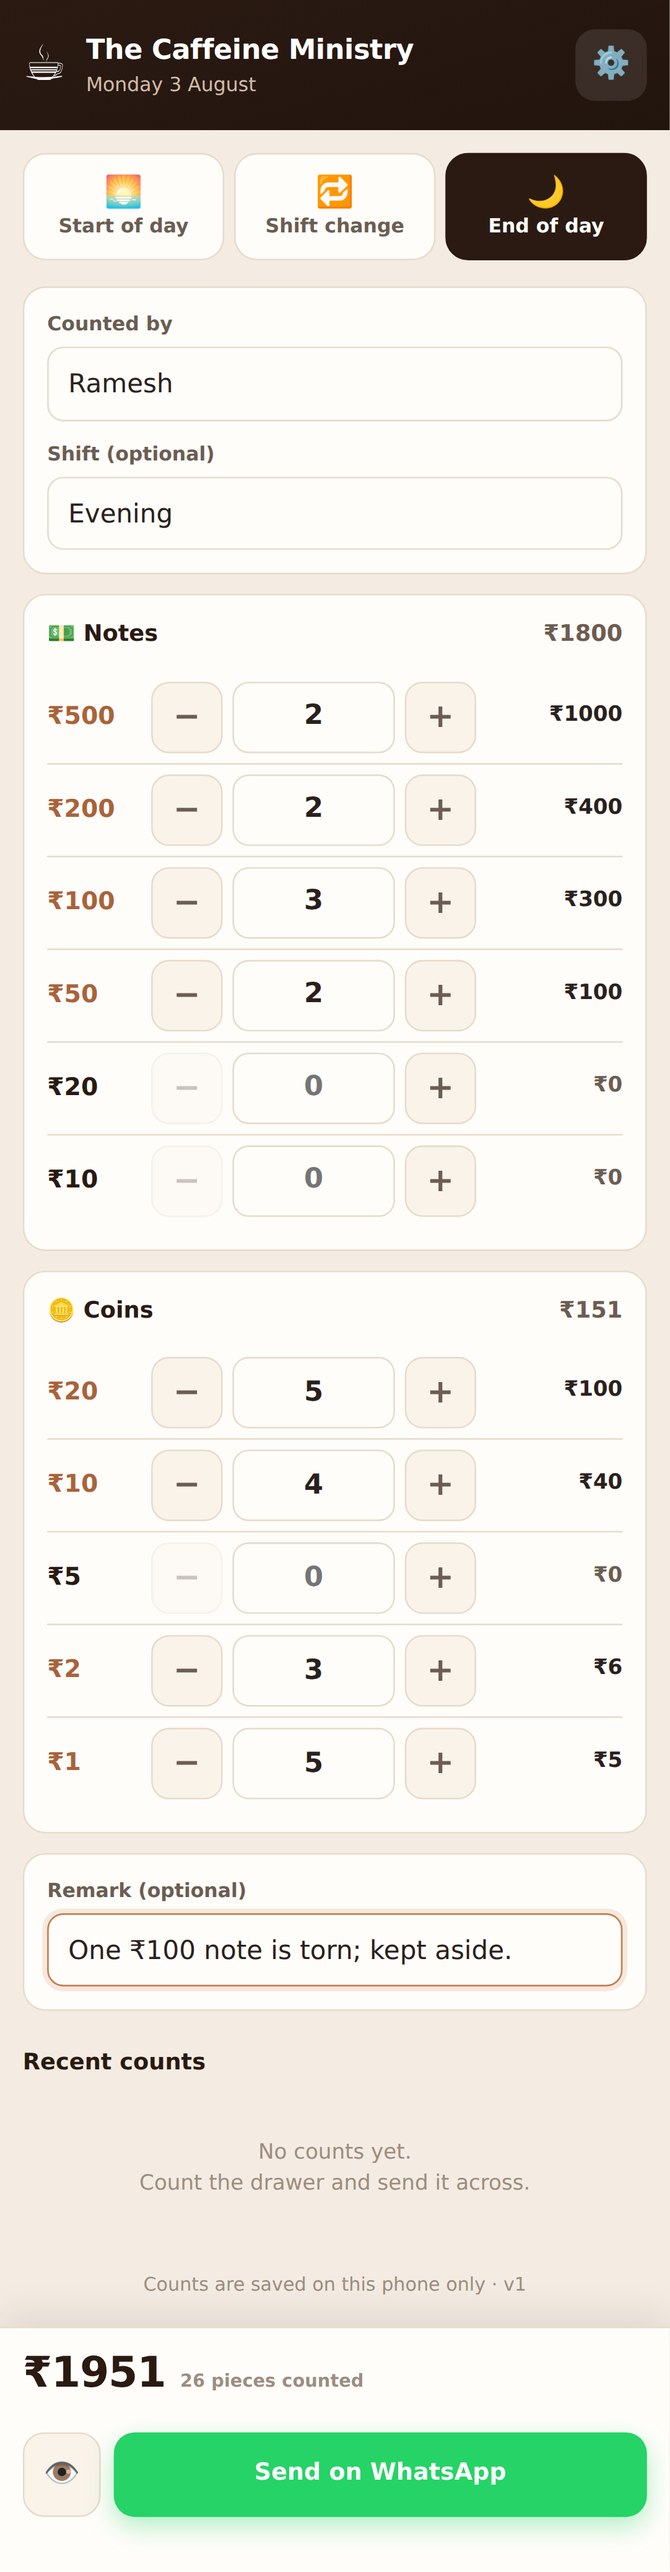
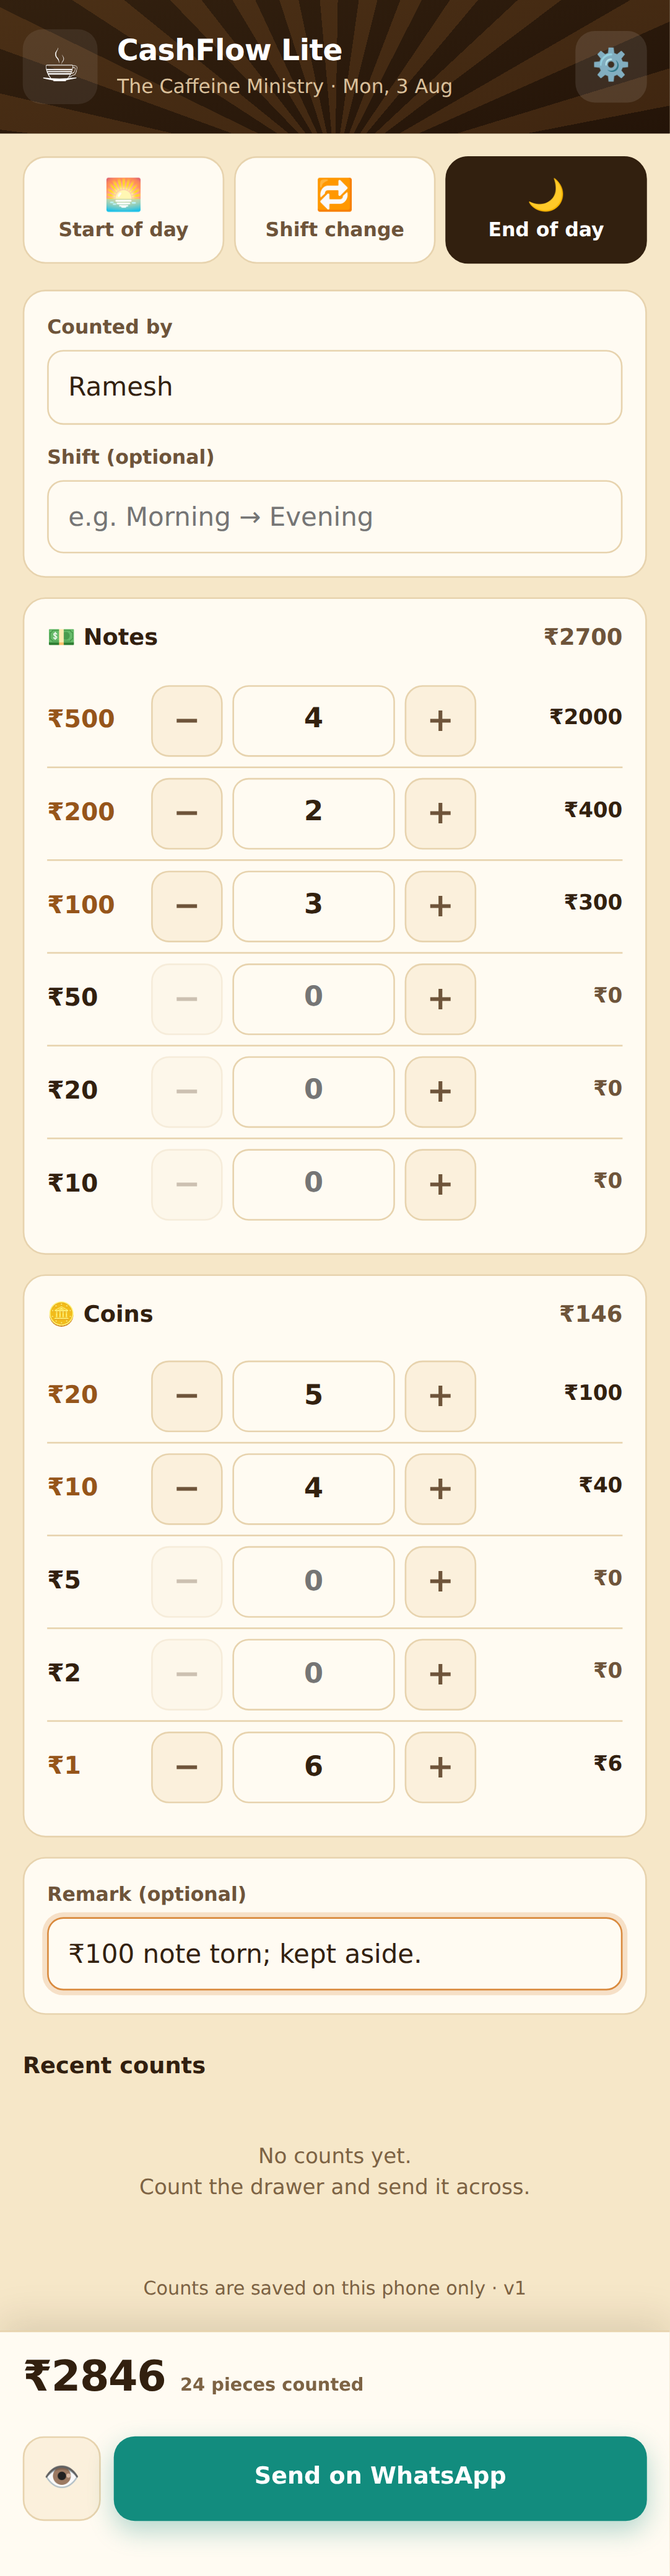
Retheme CashFlow Lite to the badge's palette
Every colour now comes off the logo: the poster's sepia ground and sunburst
(the header carries the rays), the mascot cup's orange, its dark chocolate
outline, the cream of its gloves, and the sage green of the banknotes.

The send button moves from WhatsApp's bright #25d366 to its deep #128c7e —
still a WhatsApp brand green, but one that sits on a warm ground instead of
fighting it.

Muted text is set at #7d6344 so it clears 4.5:1 against the page ground; the
denomination faces on filled rows use a darkened orange for the same reason.
icon.svg, the manifest colours and the theme-color meta follow the palette.

The header badge, the home-screen icon and the tab icon all read logo.png
from this folder when it is present, falling back to the ☕ and icon.svg
until then.

Claude-Session: https://claude.ai/code/session_01NCFSABa2MJzb9iJfLcHcJ2

diff --git a/cash-counter/index.html b/cash-counter/index.html
@@ -3,7 +3,7 @@
 <head>
 <meta charset="utf-8" />
 <meta name="viewport" content="width=device-width, initial-scale=1, viewport-fit=cover" />
-<meta name="theme-color" content="#2a1a12" />
+<meta name="theme-color" content="#32200f" />
 <meta name="description" content="Count the cash drawer and send the breakdown to the owner on WhatsApp." />
 <meta name="mobile-web-app-capable" content="yes" />
 <meta name="apple-mobile-web-app-capable" content="yes" />
@@ -14,21 +14,28 @@
 <link rel="apple-touch-icon" href="./logo.png" />
 <title>CashFlow Lite</title>
 <style>
+  /* Palette lifted from the CashFlow Lite badge: the poster's sepia ground and
+     sunburst, the mascot cup's orange, its dark chocolate outline, the cream of
+     its gloves, and the sage green of the banknotes it is holding. */
   :root {
-    --espresso: #2a1a12;
-    --crema: #c67c4e;
-    --crema-dark: #a9633a;
-    --crema-soft: #f0d9c6;
-    --page: #f4ece2;
-    --surface: #fffdfa;
-    --surface-2: #faf3ea;
-    --ink: #2a211c;
-    --ink-2: #6b5d52;
-    --muted: #9c8d80;
-    --line: #e7dbcc;
-    --good: #2f8f4e;
-    --warn: #a06a1f;
-    --danger: #c0453b;
+    --espresso: #32200f;     /* badge border, header ground */
+    --espresso-2: #241408;
+    --crema: #d98a3e;        /* the cup itself */
+    --crema-dark: #b36b27;
+    --crema-ink: #96551a;    /* the same orange, dark enough to set text in */
+    --crema-soft: #f6ddb5;
+    --page: #f6e7c8;         /* the poster behind the mascot */
+    --surface: #fffbf2;      /* the cream of the gloves */
+    --surface-2: #fbf0dc;
+    --ink: #33210f;
+    --ink-2: #6e543a;
+    --muted: #7d6344;        /* dark enough to clear 4.5:1 on the page ground */
+    --line: #e7d3ae;
+    --good: #6f7a45;         /* the sage of the banknotes */
+    --warn: #b0761e;
+    --danger: #b5462f;
+    --send: #128c7e;         /* WhatsApp's deep green, at home on this ground */
+    --send-dark: #0e7568;
     --radius: 14px;
     --tap: 44px;
     --bar: 96px;
@@ -49,7 +56,11 @@
 
   /* ------------------------------------------------------------- header -- */
   header {
-    background: linear-gradient(165deg, var(--espresso), #22150e);
+    background-color: var(--espresso-2);
+    background-image:
+      repeating-conic-gradient(from -96deg at 50% 128%,
+        rgba(217, 138, 62, 0.15) 0deg 6deg, rgba(217, 138, 62, 0) 6deg 13deg),
+      linear-gradient(165deg, var(--espresso), var(--espresso-2));
     color: #fff;
     padding: calc(18px + env(safe-area-inset-top)) 14px 18px;
   }
@@ -100,7 +111,7 @@
     width: 100%; min-height: var(--tap); border: 1px solid var(--line);
     background: var(--surface); border-radius: 10px; padding: 10px 12px; font-size: 16px;
   }
-  .input:focus { outline: none; border-color: var(--crema); box-shadow: 0 0 0 3px rgba(198,124,78,0.16); }
+  .input:focus { outline: none; border-color: var(--crema); box-shadow: 0 0 0 3px rgba(217,138,62,0.24); }
 
   /* -------------------------------------------------------------- rows --- */
   .row {
@@ -123,9 +134,9 @@
     appearance: textfield; -moz-appearance: textfield;
   }
   .qty::-webkit-outer-spin-button, .qty::-webkit-inner-spin-button { -webkit-appearance: none; margin: 0; }
-  .qty:focus { outline: none; border-color: var(--crema); box-shadow: 0 0 0 3px rgba(198,124,78,0.16); }
+  .qty:focus { outline: none; border-color: var(--crema); box-shadow: 0 0 0 3px rgba(217,138,62,0.24); }
   .amt { text-align: right; font-size: 13px; font-weight: 700; color: var(--ink-2); font-variant-numeric: tabular-nums; }
-  .row.on .face { color: var(--crema-dark); }
+  .row.on .face { color: var(--crema-ink); }
   .row.on .amt { color: var(--ink); }
 
   /* ------------------------------------------------------------ history -- */
@@ -149,7 +160,7 @@
     position: fixed; left: 0; right: 0; bottom: 0; z-index: 20;
     background: var(--surface); border-top: 1px solid var(--line);
     padding: 10px 14px calc(10px + env(safe-area-inset-bottom));
-    box-shadow: 0 -6px 22px rgba(42,26,18,0.1);
+    box-shadow: 0 -6px 22px rgba(50,32,15,0.13);
   }
   .bar-in { max-width: 560px; margin: 0 auto; display: flex; align-items: center; gap: 8px; }
   .bar-total { flex: 1; min-width: 0; }
@@ -163,10 +174,10 @@
   }
   .send {
     flex: none; min-height: 52px; padding: 0 16px; border-radius: 13px;
-    background: #25d366; color: #fff; font-size: 14.5px; font-weight: 750;
-    white-space: nowrap; box-shadow: 0 6px 16px rgba(37,211,102,0.35);
+    background: var(--send); color: #fff; font-size: 14.5px; font-weight: 750;
+    white-space: nowrap; box-shadow: 0 6px 16px rgba(18,140,126,0.32);
   }
-  .send:active { background: #1eb955; }
+  .send:active { background: var(--send-dark); }
   .send:disabled { background: var(--line); color: var(--muted); box-shadow: none; }
   .peek {
     flex: none; width: 48px; height: 52px; border-radius: 13px; font-size: 18px;
@@ -197,7 +208,7 @@
     border: none; border-radius: 18px; padding: 18px; width: min(440px, calc(100vw - 28px));
     background: var(--surface); color: var(--ink);
   }
-  dialog::backdrop { background: rgba(42,26,18,0.5); }
+  dialog::backdrop { background: rgba(50,32,15,0.55); }
   dialog h2 { font-size: 16px; color: var(--espresso); margin-bottom: 14px; }
   .dlg-acts { display: flex; gap: 8px; margin-top: 16px; }
   .dlg-acts button { flex: 1; min-height: var(--tap); border-radius: 11px; font-size: 14px; font-weight: 700; }
